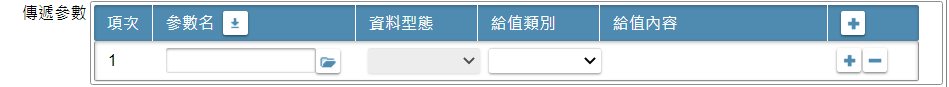
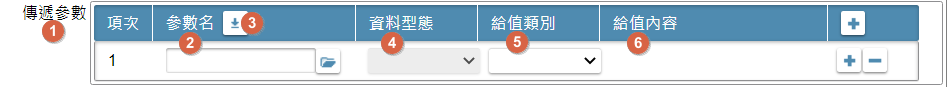
#8520 國興案規格異動: IDE 按鍵加註_開啟它單

diff --git a/8.10.0/IDE/Specification/BADialog/README.md b/8.10.0/IDE/Specification/BADialog/README.md
@@ -129,16 +129,23 @@
     * `(2)參數名`
         * 用途說明
         * 規格說明
-            * 參照 [挑選表單參數通則][link_ruledialog9], 從[開單內容][link_fieldbreak2]的`表單名稱`中, 進行表單參數挑選, 回傳:表單參數、型態
-    * `(3)資料型態`
+            * 參照 [挑選表單參數通則][link_ruledialog9], 從[開單內容][link_fieldbreak2]的`表單名稱`中, 進行表單參數挑選, 回傳: 表單參數名、參數型態
+    * `(3)載入`
+        * 用途說明
+        * 規格說明
+            * 從[開單內容][link_fieldbreak2]的`表單名稱`中, 載入該表單所有參數清單, 回傳: 表單參數名、參數型態
+                * 當參數名不存在表格內: 新增資料列
+                * 當參數名已存在表格內: 保留資料列
+                * `(1)傳遞參數表格`內存在無效的參數名: 刪除資料列     
+    * `(4)資料型態`
         * 用途說明
         * 規格說明
             * 依`(2)參數名`取得對應的型態顯示
-    * `(4)給值類別`
+    * `(6)給值類別`
         * 用途說明
         * 規格說明
             * 下拉選項: 元件 / 固定值 / 參數 / 運算
-    * `(5)給值內容`
+    * `(7)給值內容`
         * 用途說明
         * 規格說明
             * 當`(4)給值類別`=表單元件: 參照 [挑選表單元件通則][link_ruledialog7], 從駐留表單中, 進行元件挑選, 回傳: 表單元件
@@ -164,6 +171,7 @@
 [image_badialog_APP]:attachment/BADialog_APP.png
 [image_badialog_block1]:attachment/BADialog_block1.png
 [image_badialog_block2]:attachment/BADialog_block2.png
+[image_badialog_block3]:attachment/BADialog_block3.png
 
 <!-- 超連結 -->
 [link_fieldbreak1]:#fieldbreak1 "基本"
